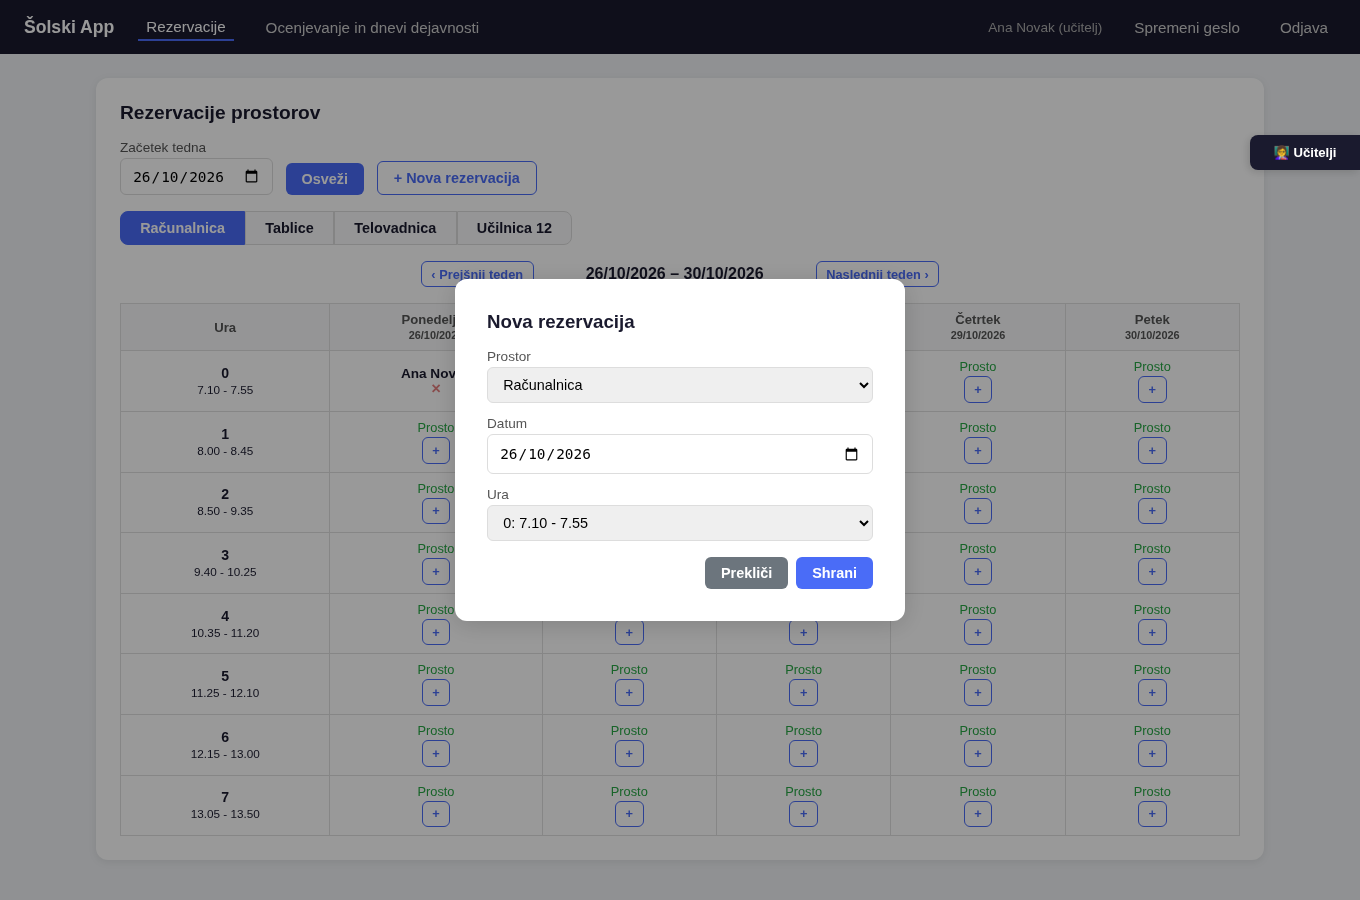
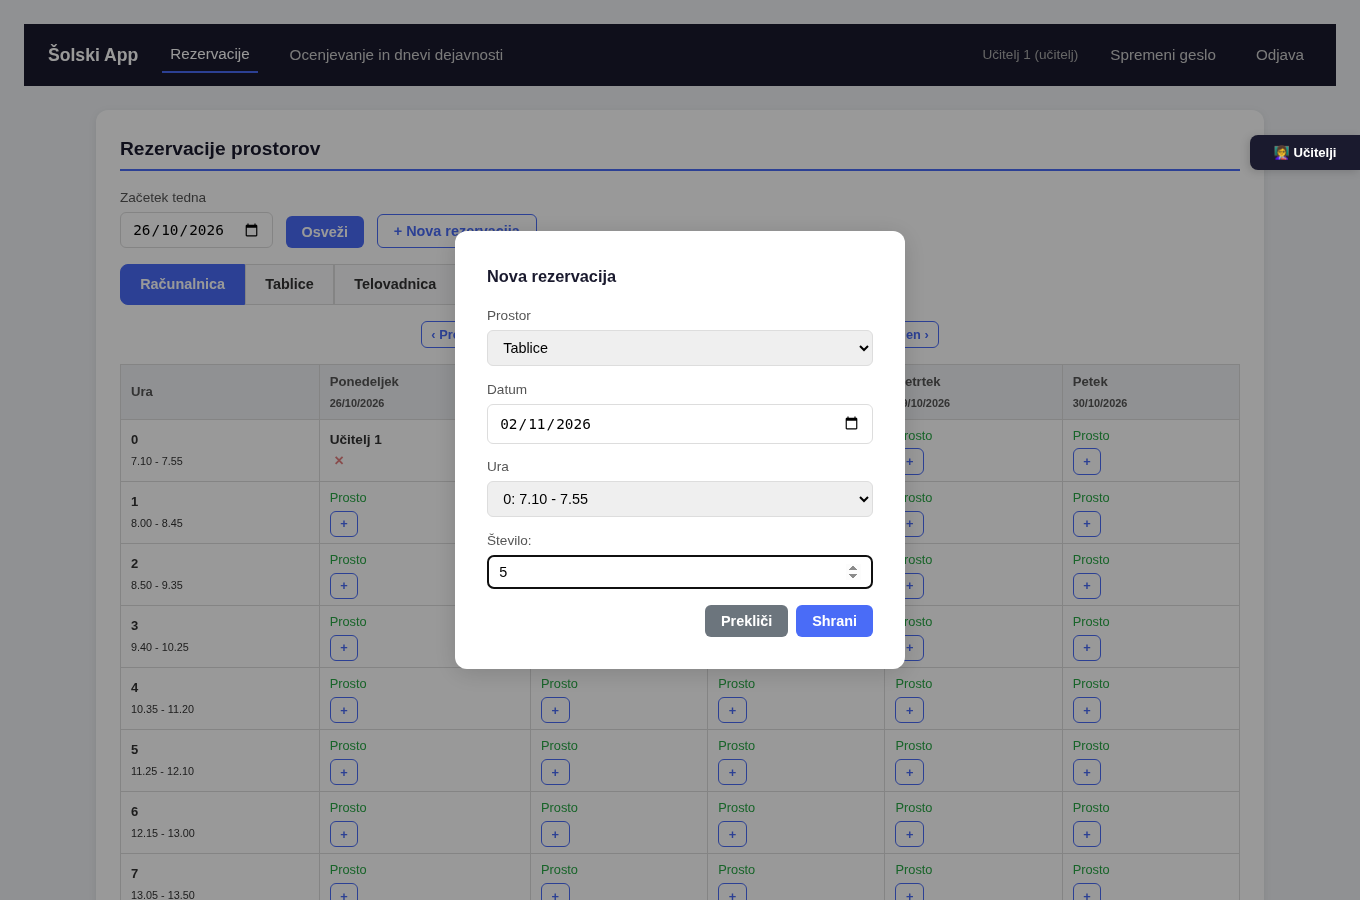
docs(navodila-ucitelji): sveži posnetki + vsa opozorila — rezervacije (zaseden termin, kapaciteta) in ocenjevanja (zaporedni dnevi, skupna meja s ponavljanji)

diff --git a/documentation/navodila-ucitelji.md b/documentation/navodila-ucitelji.md
@@ -126,6 +126,15 @@ V tem oknu izberete **Prostor** iz spustnega menija; ure so po urniku vaše šol
 
 > ⚠ **Opomba:** Če je prostor z več enotami za posamezen termin že delno rezerviran, rezervacije prek gumba `+` ni mogoče izvesti — uporabite gumb **Nova rezervacija**.
 
+**Kaj se zgodi, ko termin ni na voljo?** Sistem shranjevanja ne dovoli in prikaže **rdeče opozorilo z razlogom**:
+
+![Termin je že zaseden](slike/navodila_rezervacija_error_zaseden.png)
+*Če izberete termin, ki je že zaseden, se prikaže opozorilo in rezervacija se ne shrani.*
+
+![Kapaciteta je prekoračena](slike/navodila_rezervacija_error_kapaciteta.png)
+*Pri prostorih z več enotami (npr. tablice) lahko rezervirate le toliko, da skupno število ne preseže kapacitete.*
+
+
 **Brisanje rezervacije:**
 Vodstvo ima pravico do brisanja **kakršnekoli** rezervacije, učitelji pa lahko brišejo **samo lastne**. Vodstvo ima možnost tudi serijskih rezervacij, priporočam da večino teh naredijo preko `/dejavnosti`. 
 
@@ -182,6 +191,13 @@ Okno »Novo ocenjevanje«
 
 ![Tedenska meja — največ 2 običajna testa na teden](slike/navodila_ocenjevanje_error_tedenska_meja.png)
 *Ko so že dve običajni ocenjevanji v istem tednu, tretjo običajno ne morete dodati (ponavljanje se v to omejitev ne šteje).*
+
+![Prepoved zaporednih dni](slike/navodila_ocenjevanje_error_zaporedni_dnevi.png)
+*Trije zaporedni dnevi s testom niso dovoljeni — tudi če je kateri od njih ponavljanje.*
+
+![Največ 3 ocenjevanja skupaj na teden](slike/navodila_ocenjevanje_error_skupna_meja.png)
+*Vključno s ponavljanji je na teden dovoljenih največ 3 ocenjevanja — četrtega sistem ne dovoli.*
+
 
 ```text
 Koledar ocenjevanj (mesec)
